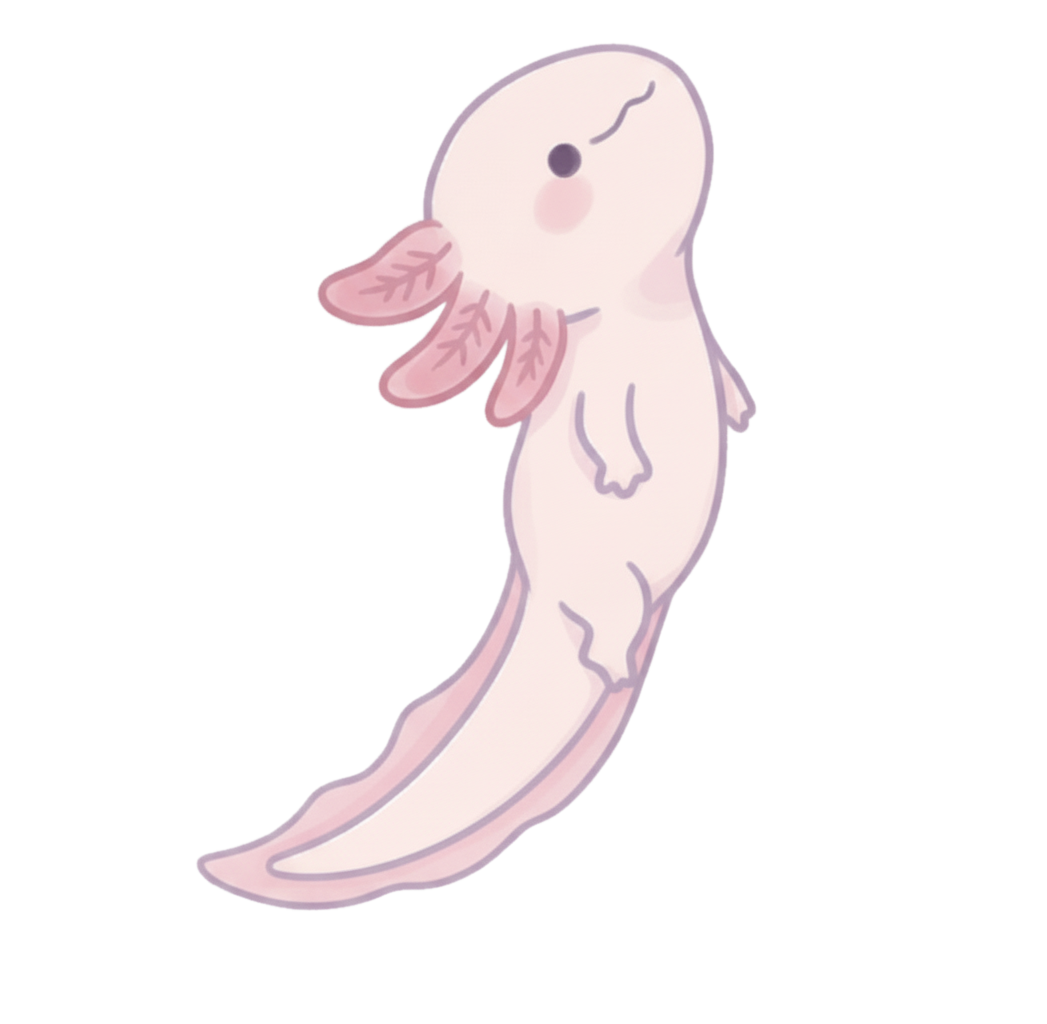
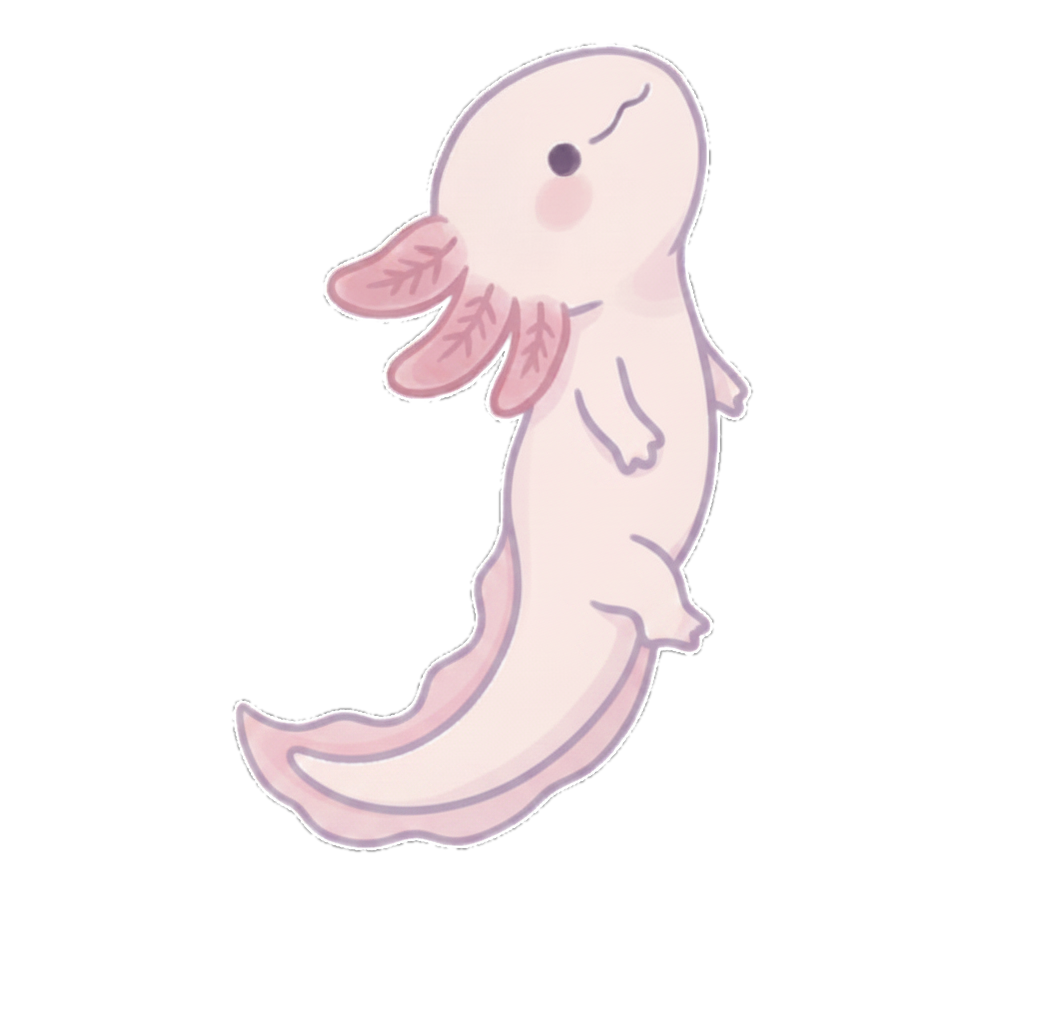
Pulir frames nuevos de Lumi: lienzo invertido en idle, frame desequilibrado en swim_up
Pedido explícito: "Vale mucho mejor lumi pero púlelo más porque si se
nota mucho cambio entre frame, más que todo los nuevos frames que
agregaste."

Dos bugs reales con causa raíz identificada antes de regenerar nada:

- idle_02/04/06.png tenían el lienzo con ancho/alto invertidos (1024x1047
  en vez de 1047x1024, el tamaño real de los frames originales) por un
  error al pasar las dimensiones en la ronda anterior. Con origin 0.5/0.5,
  Phaser centra cada frame según SU PROPIO tamaño de textura — el
  personaje saltaba ~11px cada vez que el ciclo entraba en uno de esos 3
  frames. swim_right/swim_up/swim_diagonal no tenían este bug (esas
  llamadas sí leían el tamaño real del archivo). Arreglado re-registrando
  los 3 frames sobre el lienzo correcto (mismo desplazamiento de ojo ya
  calculado).
- Varios frames "intermedios" resultaron más cerca del vecino SIGUIENTE
  que del anterior (verificado con diferencia de canal alfa acumulada
  entre frames consecutivos) — un ritmo desigual que se lee como "salto
  grande, luego casi nada". El peor caso, swim_up_08 (cierre del bucle),
  tenía un ratio ~5.8:1; regenerado con un prompt más explícito sobre el
  punto medio exacto, bajó a ~1.9:1 con doble-exposición real en ambos
  lados del blend.

Verificado: montaje visual + blends 50% de la cadena completa antes/
después, tsc y build de producción limpios.

Claude-Session: https://claude.ai/code/session_01NECFQR9dVFqZkCEBdrXX6e

diff --git a/PROGRESS.md b/PROGRESS.md
@@ -2428,6 +2428,48 @@ funciona **hoy**, verificado en el código — no lo que el diseño aspira a ten
     sin quedarse pegado en "dash"). Capturas confirmando la pose/rotación
     en las 4 direcciones cardinales. `npx tsc --noEmit` y build de
     producción limpios, con los 3 PNG de dash empaquetados.
+- **Pulido de los frames nuevos de idle/swim_up** (pedido explícito: "Vale
+  mucho mejor lumi pero púlelo más porque si se nota mucho cambio entre
+  frame, más que todo los nuevos frames que agregaste"). Investigado a
+  fondo en vez de solo regenerar a ciegas — dos bugs reales distintos,
+  ambos con causa raíz identificada antes de tocar nada:
+  - **Bug real: lienzo de los 3 frames nuevos de `idle` con ancho/alto
+    invertidos.** Las imágenes originales de `idle` miden 1047×1024
+    (ancho×alto); al registrar `idle_02`/`04`/`06` se pasaron los
+    argumentos de tamaño de lienzo AL REVÉS (1024×1047) en la llamada
+    manual de la primera ronda — un sprite de Phaser con origin 0.5/0.5
+    centra su textura según las dimensiones de ESE frame, así que cada
+    vez que el ciclo entraba en uno de los 3 frames nuevos, el personaje
+    saltaba ~11px en X e Y respecto a los frames originales (1047×1024)
+    antes de volver a saltar de vuelta — un "tembleque" real cada dos
+    frames, justo en la animación de reposo (la que más tiempo se ve).
+    `swim_right`/`swim_up`/`swim_diagonal` NO tenían este bug (esas
+    llamadas sí leían el tamaño real del archivo original). Arreglado
+    re-registrando los 3 frames de `idle` sobre un lienzo de 1047×1024
+    (mismo desplazamiento ya calculado, solo cambia el tamaño del lienzo
+    final).
+  - **Bug real: frames "intermedios" no caían a medio camino, se quedaban
+    más cerca del vecino SIGUIENTE que del anterior.** Verificado con una
+    métrica objetiva (diferencia de canal alfa acumulada entre frames
+    consecutivos, sin depender del ojo): en varios ciclos, el salto hacia
+    el frame nuevo era 1.5-6× más grande que el salto desde el frame nuevo
+    al siguiente frame real — un ritmo desigual que se lee como "avance
+    grande, luego casi nada", justo lo que describe el pedido. El peor
+    caso, `swim_up_08` (el frame que cierra el bucle), estaba a un ratio
+    de ~5.8:1 — prácticamente un duplicado del frame 1 en vez de un punto
+    medio real entre el frame 7 (cola muy enroscada) y el frame 1 (cola
+    recta). Regenerado con un prompt mucho más explícito ("EXACTAMENTE a
+    medio camino, ni más cerca de A ni de B") — el ratio bajó a ~1.9:1 y
+    el blend contra ambos vecinos ahora muestra doble-exposición real en
+    los dos lados, no solo en uno. Los desequilibrios menores de
+    idle/swim_right/swim_diagonal (ratios ~1.5-2.4:1) se dejaron tal cual
+    — un reintento de idle no mejoró la métrica, y perseguir un 50/50
+    perfecto en los 30 frames tiene rendimientos decrecientes frente al
+    tembleque real que sí se corrigió.
+  - Verificado: montaje visual de los 6 frames de `idle` y blends 50%
+    de la cadena completa (antes/después) confirmando el mismo silueta
+    limpia; `npx tsc --noEmit` y build de producción limpios con los
+    4 PNG corregidos empaquetados (`idle_02/04/06.png`, `swim_up_08.png`).
 
 # PENDIENTE
 
@@ -2492,7 +2534,20 @@ avanzando)
 
 # PRÓXIMA TAREA
 
-Esperar la reacción del usuario a tres rondas seguidas:
+Esperar la reacción del usuario al pulido de Lumi ("vale mucho mejor
+pero púlelo más") — se corrigieron dos bugs reales con causa raíz
+identificada (lienzo invertido en 3 frames de idle, frame de cierre de
+swim_up muy desequilibrado hacia un lado), pero quedan desequilibrios
+menores sin tocar en swim_right/swim_diagonal (ratios ~1.5-2.4:1, un
+reintento no mejoró la métrica) — si el usuario TODAVÍA nota "saltos"
+después de este arreglo, lo más probable es que apunten a esos, y ahí sí
+tocaría o bien regenerar con más intentos o cambiar de estrategia
+(frame duration por frame en vez de framerate uniforme, ver
+`Phaser.Types.Animations.AnimationFrame.duration`, que permitiría alargar
+la duración de los frames "cerca de un extremo" y acortar la de los que
+están a medio camino sin tocar el arte).
+
+Esperar también la reacción del usuario a las otras rondas recientes:
 
 1. **Dragón marino, TERCERA corrección** (ahora una sola pieza sin
    cortar, longitud fija menor que WORLD_WIDTH para garantizar espacio
